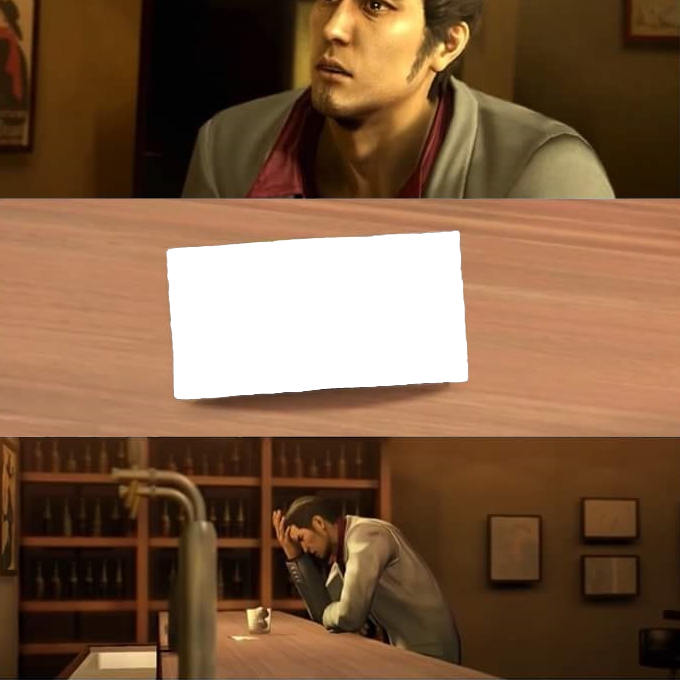
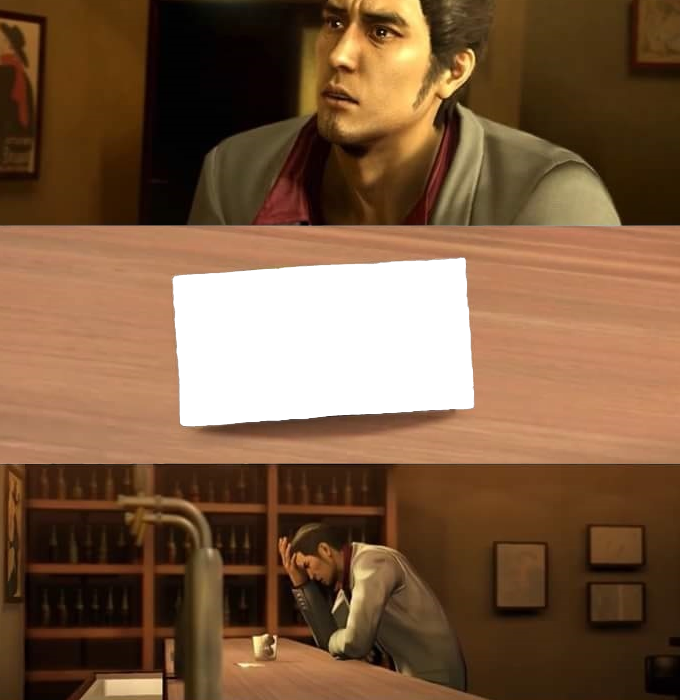
Fix

diff --git a/commands/imageshit/bakamitai.js b/commands/imageshit/bakamitai.js
@@ -105,8 +105,8 @@ class BakaMitaiCommand extends command.Command
                     Jimp.read(url).then(function (userImage) {
                         console.log("got avatar");
                         
-                        var x = 150
-                        var y = 225
+                        var x = 160
+                        var y = 250
 
                         userImage.cover(330, 180) 
                         userImage.rotate(-3);                       
@@ -178,8 +178,8 @@ class BakaMitaiCommand extends command.Command
                     Jimp.read(url).then(function (userImage) {
                         console.log("got avatar");
                         
-                        var x = 150
-                        var y = 225
+                        var x = 160
+                        var y = 250
 
                         userImage.cover(330, 180) 
                         userImage.rotate(-3);                      
